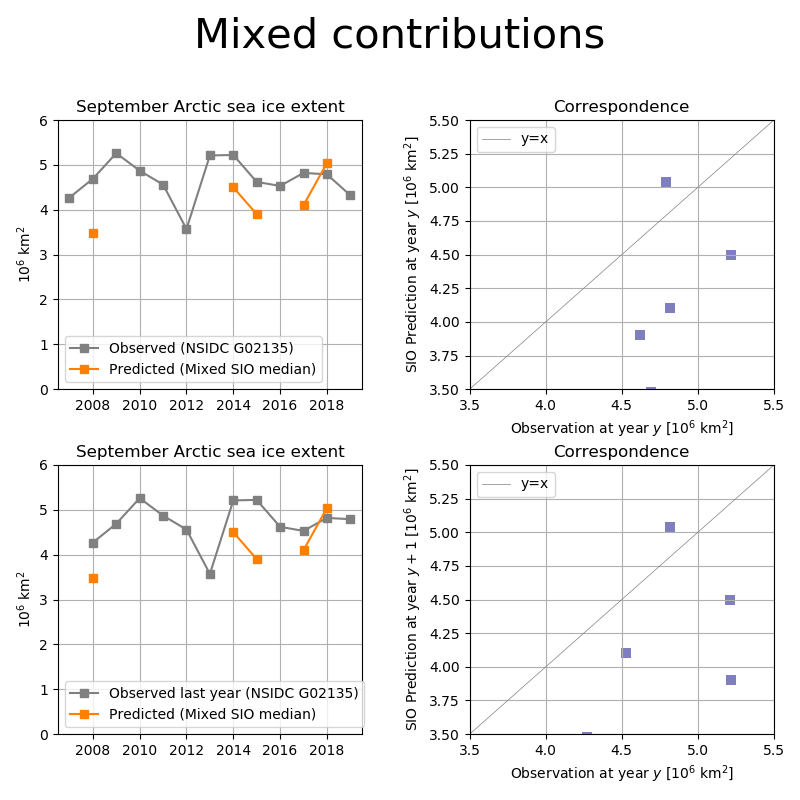
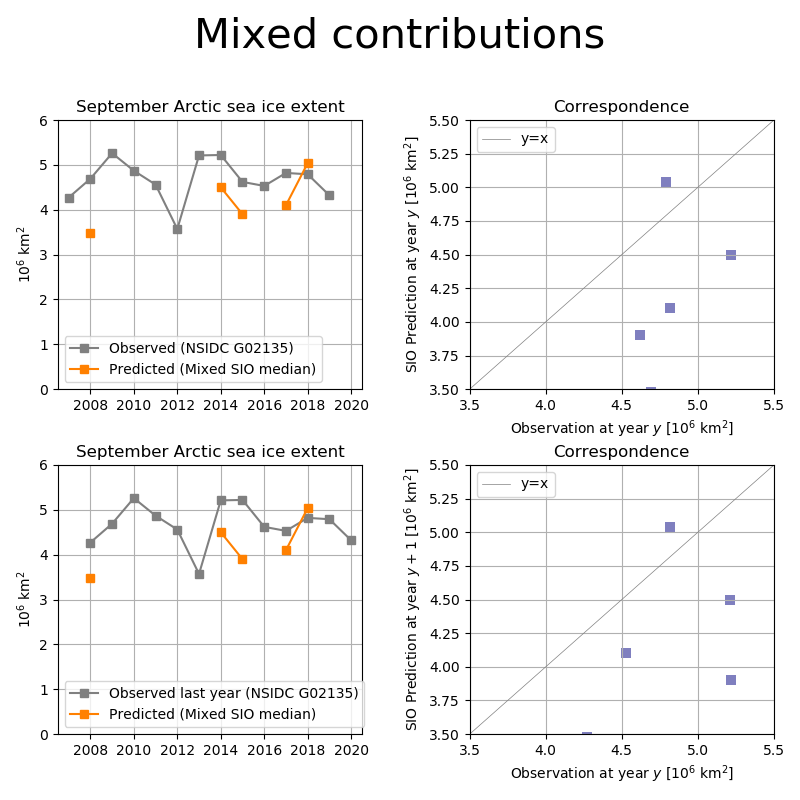
Add synthetic tests

diff --git a/understanding.py b/understanding.py
@@ -1,0 +1,85 @@
+# -*- coding: utf-8 -*-
+"""
+Created on Wed Jun 24 16:10:16 2020
+
+@author: massonnetf
+"""
+
+import numpy as np
+import matplotlib.pyplot as plt
+
+np.random.seed(0)
+# Understanding the origin of correlation between previous year observed
+# and next year observed extent
+
+# Strategy: 1/ generate a synthetic time series of length N
+#           2/ Extrapolate the time series linearly or quadratically to N+ 1
+#           3/ Correlate the extrapolation with the Nth element of the series
+#           4/ Repeat many times
+
+# Order for trend extrapolation
+order = 1 
+
+yearb  = 1979
+# First year an outlook was collected
+yearbo = 2008 
+# Last year an outlook was collected
+yeareo = 2020 
+
+# Number of years
+N = yeareo - yearb + 1
+# Number of Monte Carlo Runs
+nMC = 1000
+
+
+correlations = list()
+for jMC in range(nMC):
+    
+    # Generating synthetic time series of observations from start to end
+    historicalSeries = np.random.randn(N)
+    
+    # Generate a prediction each year by simple extrapolation of the trend
+    # up to previous year
+    
+    # Initializing the year of prediction to the first outlook year
+    yearpred = yearbo
+    
+    currentOutlooks = list()
+    while yearpred <=  yeareo:
+        
+        # series of observations up to then (ignoring the current year)
+        # Note that PYthon stops indexing at the last but one value of the
+        # range
+        myYears = np.arange(yearb, yearpred)
+        
+        seriesObs = historicalSeries[yearb - yearb: yearpred - yearb]
+        
+        extrapolPrediction = np.polyval( \
+                            np.polyfit(myYears, seriesObs, order), \
+                            yearpred)
+    
+        currentOutlooks.append([extrapolPrediction, seriesObs[-1]])
+        
+        yearpred += 1
+     
+    currentOutlooks = np.array(currentOutlooks)    
+    # Correlate the time series
+    correlations.append(np.corrcoef(currentOutlooks[:, 0], currentOutlooks[:, 1])[0, 1])
+
+
+    
+    
+fig, ax = plt.subplots(1, 1, dpi = 150)
+ax.set_title("Distriution of " + str(nMC) + " lag-1 correlations between artificial observations\n \
+             at year $y$ and statistical prediction (extrapolation) at year $y+1$,\n \
+             for $y$ ranging from " + str(yearbo) + " to " + str(yeareo - 1))
+h = ax.hist(correlations, bins = np.arange(-1, 1, 0.1), color = "black", \
+            alpha = 0.5, edgecolor = "white")
+ax.plot((0.0, 0.0), (0.0, 1000), color = "k")
+ax.grid()
+ax.set_ylabel("Count")
+ax.set_xlabel("Sample Pearson correlation")
+ax.set_ylim(0.0, 1.05 * np.max(h[0]))
+ax.set_axisbelow(True)
+fig.savefig("./fig.png")
+fig.show()

diff --git a/sio_predicting_predictions.py b/sio_predicting_predictions.py
@@ -26,10 +26,10 @@ method = 4
 #       Year   obs   [ALL,    DYN,    STAT,   HEUR,   MIX]
 data = [
         [2007, 4.27, [np.nan, np.nan, np.nan, np.nan, np.nan]],
-        [2008, 4.69, [4.3 ,   np.nan,  4.5,    4.1,    3.48  ]], # Value from Larry's file
+        [2008, 4.69, [4.3 ,   np.nan,  4.5,    4.1,    3.48 ]], # Value from Larry's file
         [2009, 5.26, [4.74,   4.75,   4.89,   4.67,   np.nan]], # Value from Larry's file
         [2010, 4.87, [4.9 ,   4.9,    4.9,    5.0,    np.nan]], # Value from Larry's file
-        [2011, 4.56, [4.7 ,   4.55,   4.7,    4.8,    np.nan]], # From website (and so on)
+        [2011, 4.56, [4.7 ,   4.55,   4.7,    4.8,    np.nan]], 
         [2012, 3.57, [4.4 ,   4.8,    4.4,    4.5,    np.nan]],
         [2013, 5.21, [4.1 ,   4.35,   3.9,    4.1,    np.nan]],
         [2014, 5.22, [4.7 ,   4.65,   4.8,    4.4,    4.5   ]],
@@ -38,6 +38,7 @@ data = [
         [2017, 4.82, [4.43,   4.39,   4.69,   4.08,   4.1   ]],
         [2018, 4.79, [4.6 ,   4.78,   4.41,   4.31,   5.04  ]],
         [2019, 4.32, [4.40,   4.56,   4.4 ,   4.09,   np.nan]], # Based on Betsy's Excel sheet
+        [2020, np.nan, [4.33, 4.405,  4.26,   4.35,   np.nan]]
        ]
 
 years = [d[0] for d in data]
